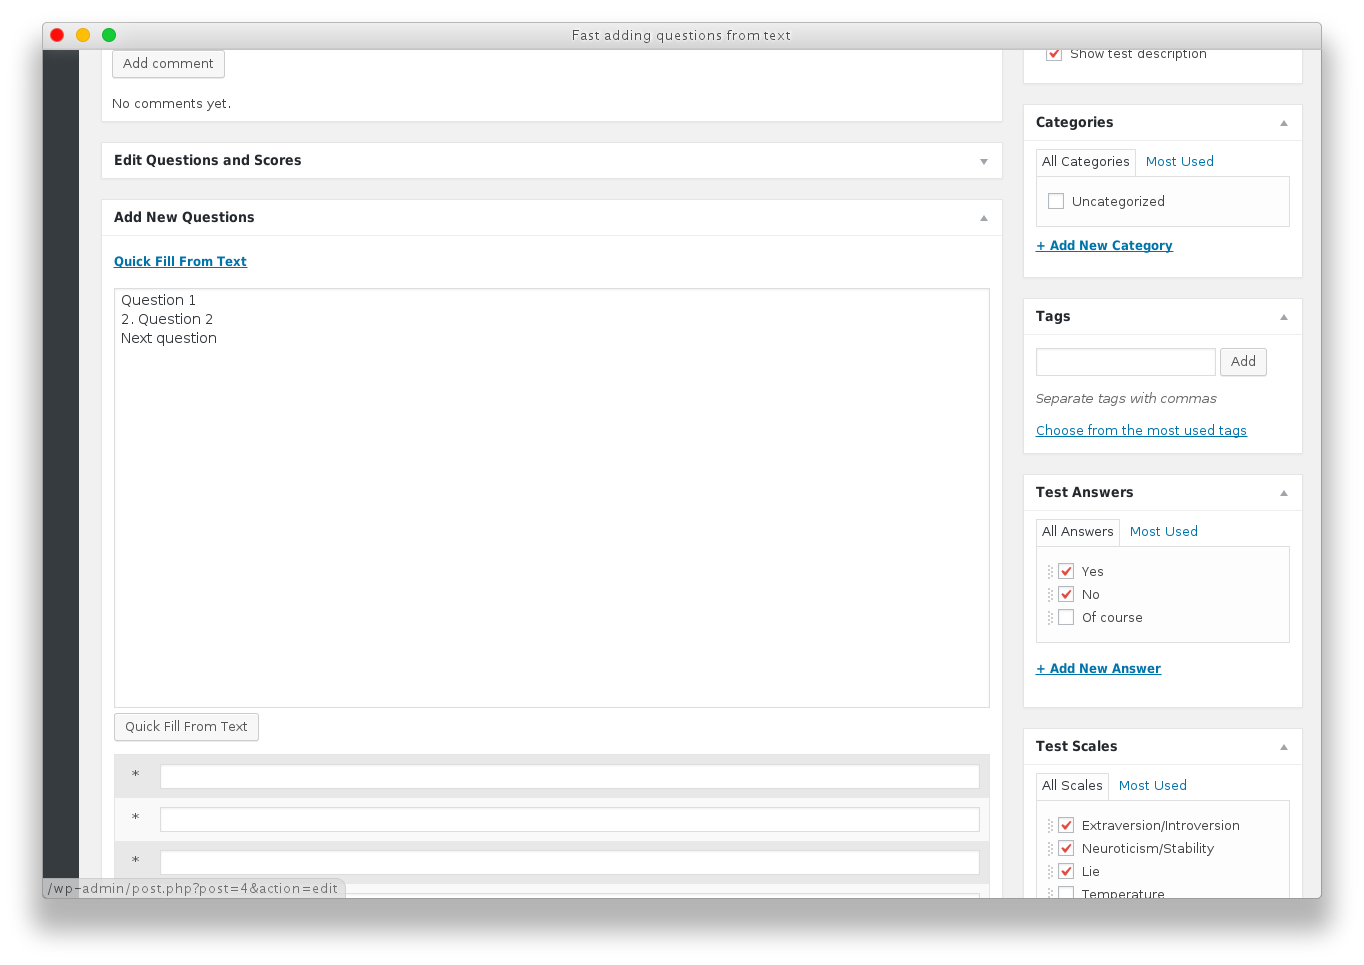
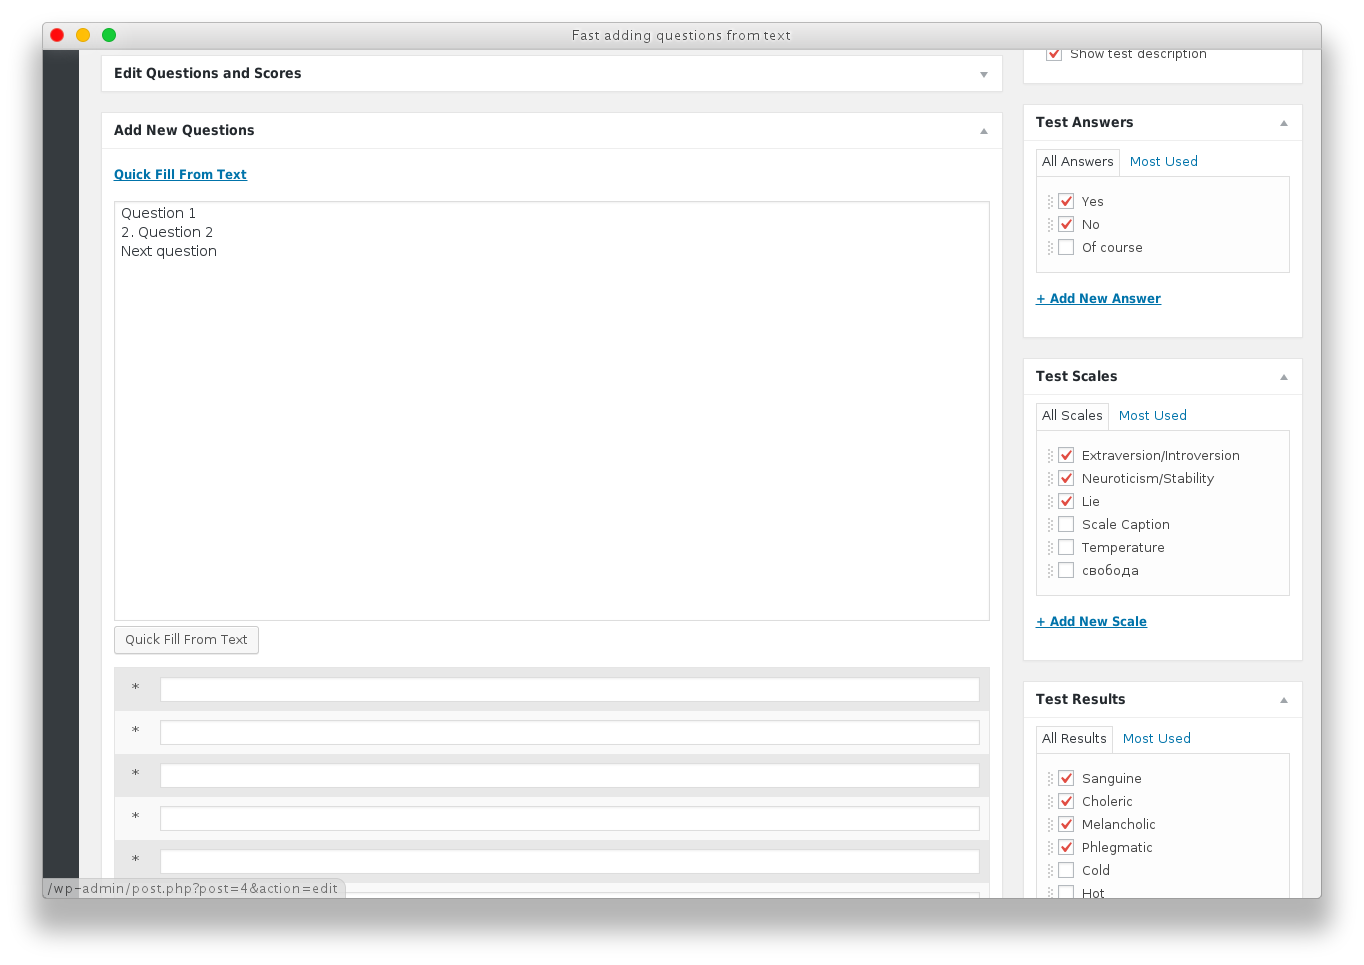
Update screenshots
* Switch screenshots to form's class from id
* Update checkboxed settings

diff --git a/tools/screenshots/create-screenshots.js b/tools/screenshots/create-screenshots.js
@@ -42,7 +42,7 @@ var screenshots = [
 
            casper.thenOpen('http://wpti.dev:8000/wp-admin/edit.php?post_type=wpt_test', function() {
                this.evaluate(function() {
-                   var ids = '#categories-hide,#tags-hide,#taxonomy-wpt_category-hide,#comments-hide';
+                   var ids = '#categorydiv-hide,#tagsdiv-post_tag-hide,#wpt_categorydiv-hide,#commentsdiv-hide,#authordiv-hide';
                    jQuery(ids).attr('checked', false).click().click()
                })
 
@@ -211,7 +211,7 @@ var screenshots = [
                     if (54 == i) {
                         continue;
                     }
-                    this.clickLabel('Yes', '*[@id="wpt-test-form"]/*[' + i + ']/*//label')
+                    this.clickLabel('Yes', '*[@class="wpt_test_form"]/*[' + i + ']/*//label')
                 }
                 this.evaluate(function(){
                     jQuery('#wpt-test-form :submit').click()
@@ -224,7 +224,7 @@ var screenshots = [
         actions : function () {
             casper.then(function() {
                 i = 54
-                this.clickLabel('Yes', '*[@id="wpt-test-form"]/*[' + i + ']/*//label')
+                this.clickLabel('Yes', '*[@class="wpt_test_form"]/*[' + i + ']/*//label')
             }).wait(200)
         }
     }, {
@@ -232,7 +232,7 @@ var screenshots = [
         offset  : 400,
         actions : function () {
             casper.then(function() {
-                this.fill('form#wpt-test-form', {}, true)
+                this.fill('form.wpt_test_form', {}, true)
             }).waitForUrl(/test.+eysencks/, function() {
                 this.evaluate(function() {
                     var r = jQuery('div.result-slug-result-choleric')
@@ -269,7 +269,7 @@ var screenshots = [
             casper.thenOpen('http://wpti.dev:8000/test/diagram-with-same-length-scales/').waitForUrl(/diagram-with-same/, function() {
                 this.clickLabel('Yes')
                 this.evaluate(function(){
-                    jQuery('#wpt-test-form').submit()
+                    jQuery('form.wpt_test_form').submit()
                 })
             }).waitForUrl(/test.+[a-z0-9]+[a-f0-9]{32}/, function () {
                 this.mouse.move('.scales.diagram')
@@ -281,7 +281,7 @@ var screenshots = [
             casper.thenOpen('http://wpti.dev:8000/test/diagram-with-different-length-scales-uses-percents/').waitForUrl(/diagram-with-different/, function() {
                 this.clickLabel('Yes')
                 this.evaluate(function(){
-                    jQuery('#wpt-test-form').submit()
+                    jQuery('form.wpt_test_form').submit()
                 })
             }).waitForUrl(/test.+[a-z0-9]+[a-f0-9]{32}/, function () {
                 this.mouse.move('.scales.diagram')
@@ -293,33 +293,33 @@ var screenshots = [
             casper.thenOpen('http://wpti.dev:8000/?wpt_test=multiple-answers').waitForUrl(/multiple-answers/)
 
             casper.then(function() {
-                this.clickLabel('Yes', '*[@id="wpt-test-form"]/*[1]/*//label')
-                this.clickLabel('No',  '*[@id="wpt-test-form"]/*[2]/*//label')
+                this.clickLabel('Yes', '*[@class="wpt_test_form"]/*[1]/*//label')
+                this.clickLabel('No',  '*[@class="wpt_test_form"]/*[2]/*//label')
             })
         }
     }, {
         title   : 'One question per page also allowed. On first page we see test description, "Next" button and pages counter',
         actions : function () {
             casper.thenOpen('http://wpti.dev:8000/test/three-steps/').waitForUrl(/three/, function() {
-                this.clickLabel('Yes', '*[@id="wpt-test-form"]/*//label')
+                this.clickLabel('Yes', '*[@class="wpt_test_form"]/*//label')
             })
         }
     }, {
         title   : 'On second page description not shown',
         actions : function () {
             casper.then(function() {
-                this.fill('form#wpt-test-form', {}, true)
+                this.fill('form.wpt_test_form', {}, true)
             }).waitForUrl(/three-steps/, function() {
-                this.clickLabel('No', '*[@id="wpt-test-form"]/*//label')
+                this.clickLabel('No', '*[@class="wpt_test_form"]/*//label')
             })
         }
     }, {
         title   : 'On last page counter not shown and button changes back to "Get Test Results"',
         actions : function () {
             casper.then(function() {
-                this.fill('form#wpt-test-form', {}, true)
+                this.fill('form.wpt_test_form', {}, true)
             }).waitForUrl(/three-steps/, function() {
-                this.clickLabel('Yes', '*[@id="wpt-test-form"]/*//label')
+                this.clickLabel('Yes', '*[@class="wpt_test_form"]/*//label')
             })
         }
     }
